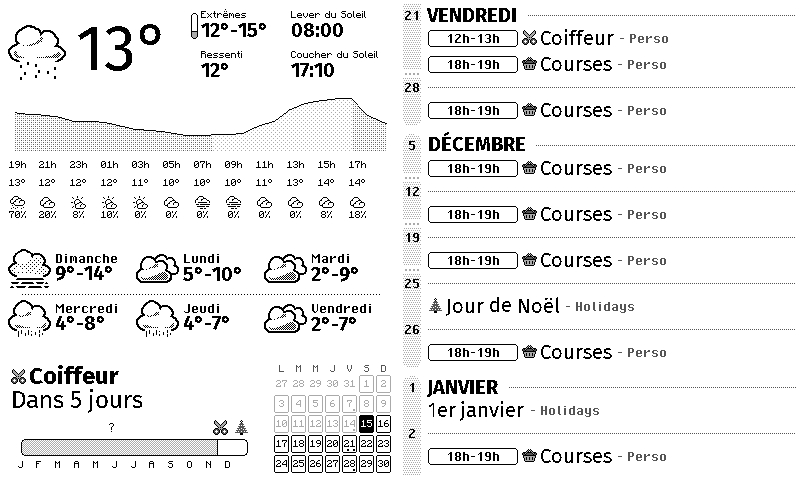
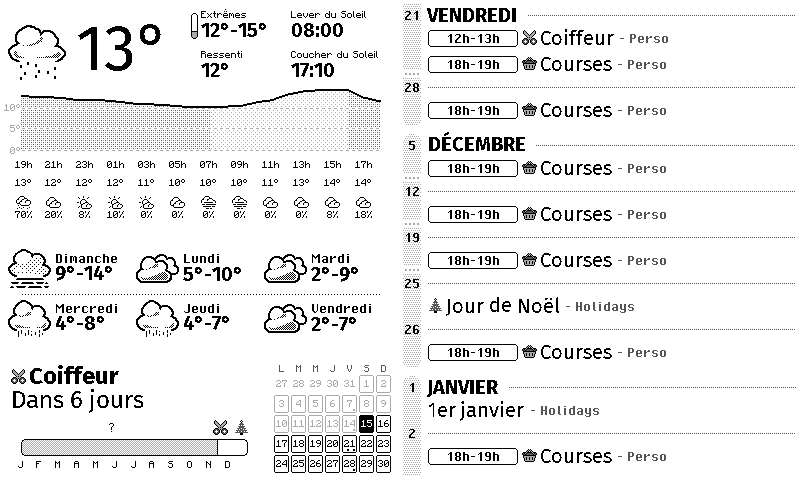
draw a scale in curve widget

diff --git a/src/verdandi/widget/weather.py b/src/verdandi/widget/weather.py
@@ -13,8 +13,8 @@ from verdandi.util.draw import ShadeMatrix
 from verdandi.util.color import CL, CW, CD
 from verdandi.util.date import next_time_cadenced
 
-
 MARGIN = 6
+MIN_CURVE_RANGE = 10.0
 
 
 FILL_DAY = ShadeMatrix(
@@ -30,6 +30,12 @@ FILL_NIGHT = ShadeMatrix(
     [CL, CW, CD, CW],
     [CW, CW, CW, CW],
 )
+
+# Dashed lanes on the curve are represented with a matrix with same column
+# alignment as fills which allows to control which part of the pattern may
+# be overriden or not.
+DASHED_LINE = [CW] * 4 + [CD] * 3 + [CW] * 2
+DASHED_SCALE = ShadeMatrix(DASHED_LINE, [CW], DASHED_LINE, [CW])
 
 
 class WeatherRecap3x2(Widget):
@@ -78,7 +84,7 @@ class WeatherRecap3x2(Widget):
             draw,
             (200, 18),
             Font.XMEDIUM_BOLD,
-            f"{round(today_temp_min)}°-{round(today_temp_max)}°",
+            f"{round(today_temp_min)}°|{round(today_temp_max)}°",
         )
 
         # Section: apparent temperature
@@ -112,21 +118,35 @@ class WeatherRecap3x2(Widget):
         # == Draw curve
 
         # Find temperature bounds for the next two days
-        temp_min = min(
-            min(x.temperature for x in weather.hourly[:49]),
-            weather.temperature,
+        temp_min, temp_max = weather.temerature_bounds(
+            curr_dt,
+            curr_dt + timedelta(hours=24.0),
         )
 
-        temp_max = max(
-            max(x.temperature for x in weather.hourly[:49]),
-            weather.temperature,
-        )
+        displayed_min = 0.0 if temp_min > 0.0 else temp_min
+        displayed_max = 0.0 if temp_max < 0.0 else temp_max
+
+        if displayed_max - displayed_min < MIN_CURVE_RANGE:
+            missing_space = MIN_CURVE_RANGE - displayed_max + displayed_min
+            displayed_min -= missing_space / 2
+            displayed_max += missing_space / 2
+
+        scale_precision = 5 if displayed_max - displayed_min < 20 else 10
+
+        def temp_y_coord(temp: float) -> float:
+            return (temp - displayed_min) / (displayed_max - displayed_min)
+
+        displayed_scale = [
+            (f"{temp}°", temp_y_coord(temp), DASHED_SCALE)
+            for temp in range(int(displayed_min), int(displayed_max) + 1)
+            if temp % scale_precision == 0
+        ]
 
         # Section: hourly
         def temp_func(x: float) -> float:
             dt = curr_dt + timedelta(hours=24.0 * x)
-            y = weather.interpolate_temperature_at(dt)
-            return 0.1 + 0.9 * (y - temp_min) / (temp_max - temp_min)
+            temp = weather.interpolate_temperature_at(dt)
+            return temp_y_coord(temp)
 
         # Shade the curve between sunset & surise
         next_date = curr_date + timedelta(days=1)
@@ -153,7 +173,15 @@ class WeatherRecap3x2(Widget):
             )
         )
 
-        draw_curve(draw, (14, 90, self.width() - 14, 150), temp_func, shade_parts)
+        curve_x_pos = 20
+
+        draw_curve(
+            draw,
+            (curve_x_pos, 90, self.width() - curve_x_pos, 150),
+            temp_func,
+            shade_parts,
+            displayed_scale,
+        )
 
         # == Draw Table
 
@@ -168,7 +196,7 @@ class WeatherRecap3x2(Widget):
 
         for i in range(0, displayed_range, 2):
             hour = first_hour + i
-            x = 14 + minutes_offset + (self.width() - 28) * i // 24
+            x = curve_x_pos + minutes_offset + (self.width() - 28) * i // 24
             draw_text(draw, (x, 160), Font.SMALL, f"{(hour % 24):02}h", anchor="ma")
 
             draw_text(
@@ -237,7 +265,7 @@ class WeatherWeek3x1(Widget):
                 draw,
                 (pos_x + 48, pos_y + 16),
                 Font.XMEDIUM_BOLD,
-                f"{round(day.temperature_min)}°-{round(day.temperature_max)}°",
+                f"{round(day.temperature_min)}°|{round(day.temperature_max)}°",
             )
 
         draw.point([(x, MARGIN + 48) for x in range(21, self.width() - 20, 3)])

diff --git a/src/verdandi/component/curve.py b/src/verdandi/component/curve.py
@@ -2,8 +2,9 @@ from typing import Callable
 
 from PIL.ImageDraw import ImageDraw
 
-from verdandi.util.color import CB
+from verdandi.util.color import CB, CL
 from verdandi.util.draw import xy_to_bounds, AbcShade, ShadeUniform
+from verdandi.component.text import draw_text, Font
 
 
 def draw_curve(
@@ -11,6 +12,7 @@ def draw_curve(
     xy: tuple[int, int, int, int],
     curve: Callable[[float], float],
     shade_parts: list[tuple[float, AbcShade]] = [(1.0, ShadeUniform(CB))],
+    displayed_scale: list[tuple[str, float, AbcShade]] = [],
 ):
     assert len(shade_parts) > 0
     (x_min, x_max), (y_min, y_max) = xy_to_bounds(xy)
@@ -19,10 +21,6 @@ def draw_curve(
         y_min + int((y_max - y_min) * (1.0 - curve((x - x_min) / (x_max - x_min))))
         for x in range(x_min, x_max + 1)
     ]
-
-    # Draw the outline of the curve
-    draw.point([(x_min + dx, y) for dx, y in enumerate(min_height)])
-    draw.point([(x_min + dx, y - 1) for dx, y in enumerate(min_height)])
 
     # Draw each section with its own density
     prev_cursor = 0.0
@@ -41,3 +39,13 @@ def draw_curve(
                 for y in range(min_height[x - x_min], y_max + 1)
             ),
         )
+
+    # Draw intermediary lines
+    for label, scale_pos, shade in displayed_scale:
+        scale_y = y_min + int((y_max - y_min) * (1.0 - scale_pos)) + 2
+        shade.fill_rect(draw, (x_min, scale_y, x_max, scale_y + 1))
+        draw_text(draw, (x_min, scale_y), Font.SMALL, label, anchor="rm", color=CL)
+
+    # Draw the outline of the curve
+    draw.point([(x_min + dx, y) for dx, y in enumerate(min_height)])
+    draw.point([(x_min + dx, y - 1) for dx, y in enumerate(min_height)])

diff --git a/src/verdandi/metric/weather.py b/src/verdandi/metric/weather.py
@@ -106,6 +106,19 @@ class WeatherMetric(Metric):
             + last_point.temperature * progress
         )
 
+    def temerature_bounds(
+        self,
+        dt_min: datetime,
+        dt_max: datetime,
+    ) -> tuple[float, float]:
+        temperatures = [
+            pt.temperature for pt in self.hourly if dt_min <= pt.time <= dt_max
+        ]
+
+        temperatures.append(self.interpolate_temperature_at(dt_min))
+        temperatures.append(self.interpolate_temperature_at(dt_max))
+        return min(temperatures), max(temperatures)
+
 
 class WeatherConfig(MetricConfig[WeatherMetric], frozen=True):
     timezone: str = Field(description="your local timezone")
